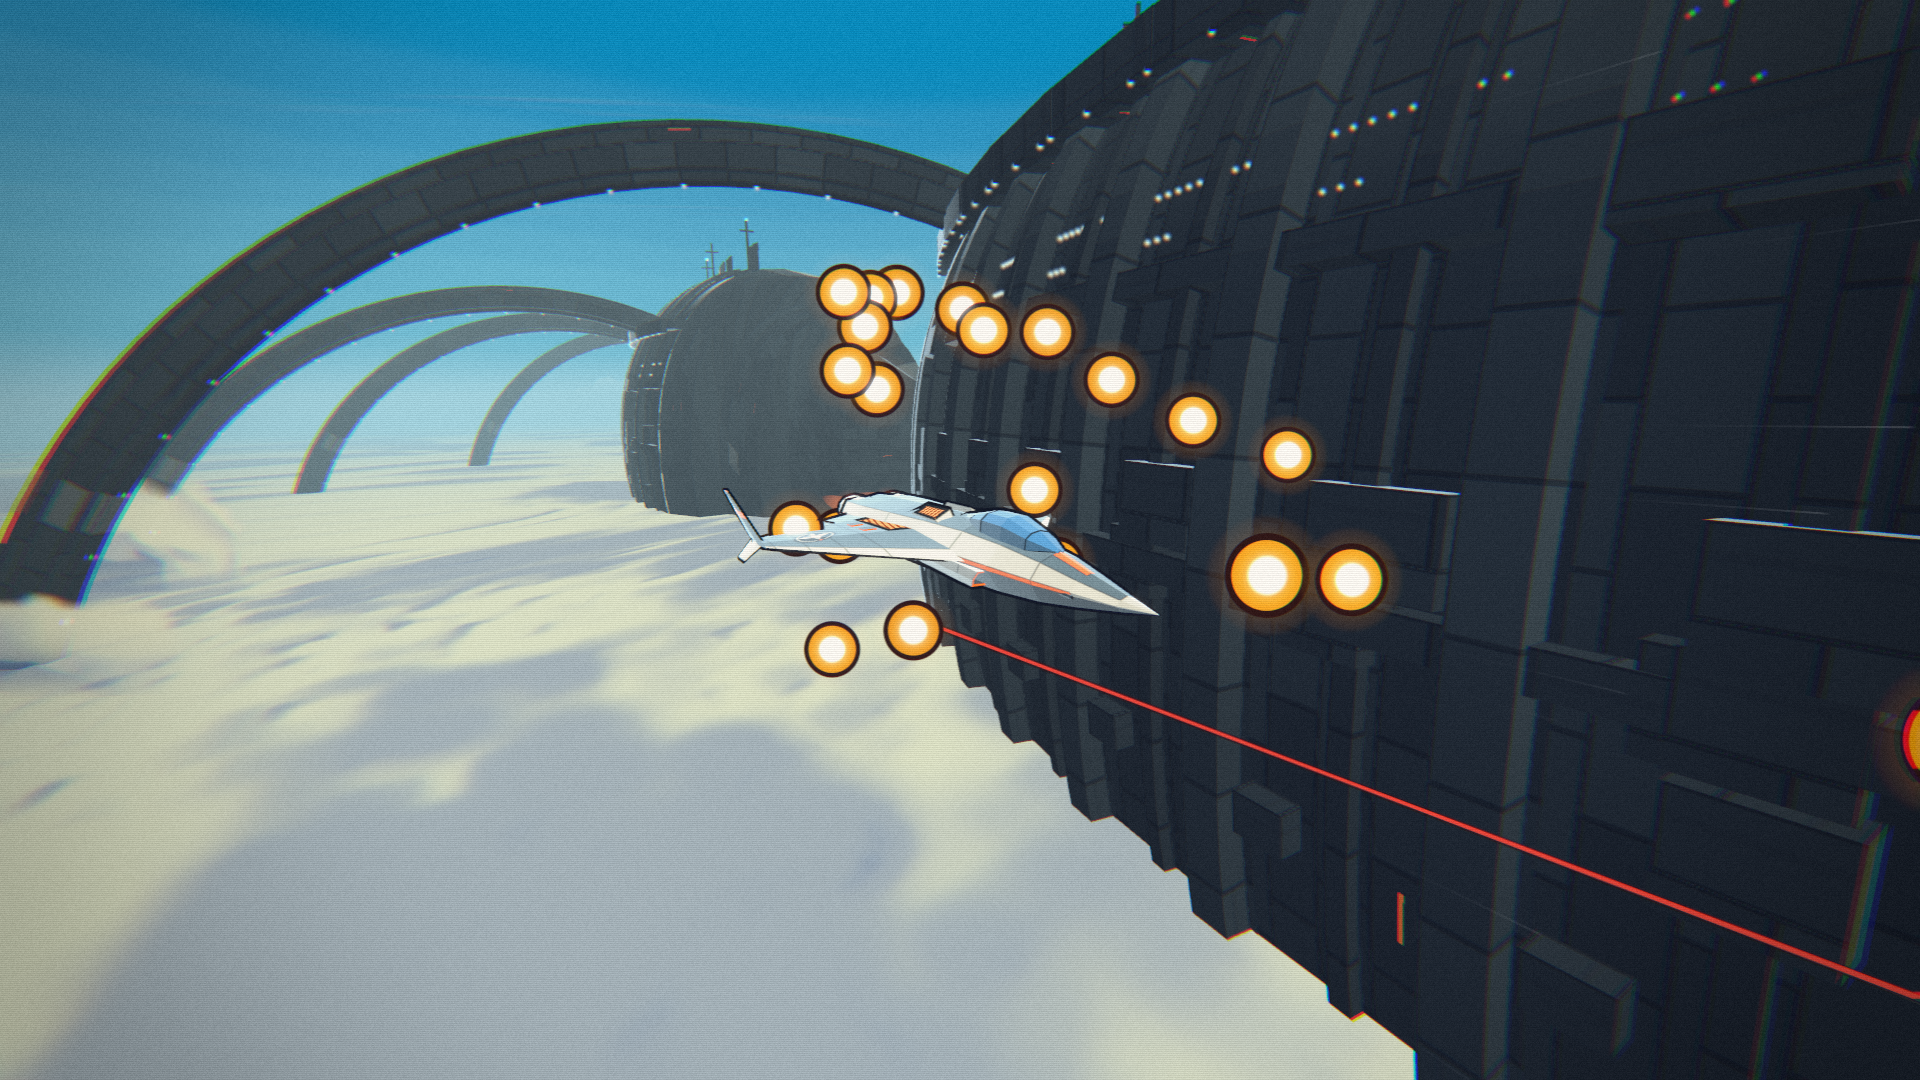
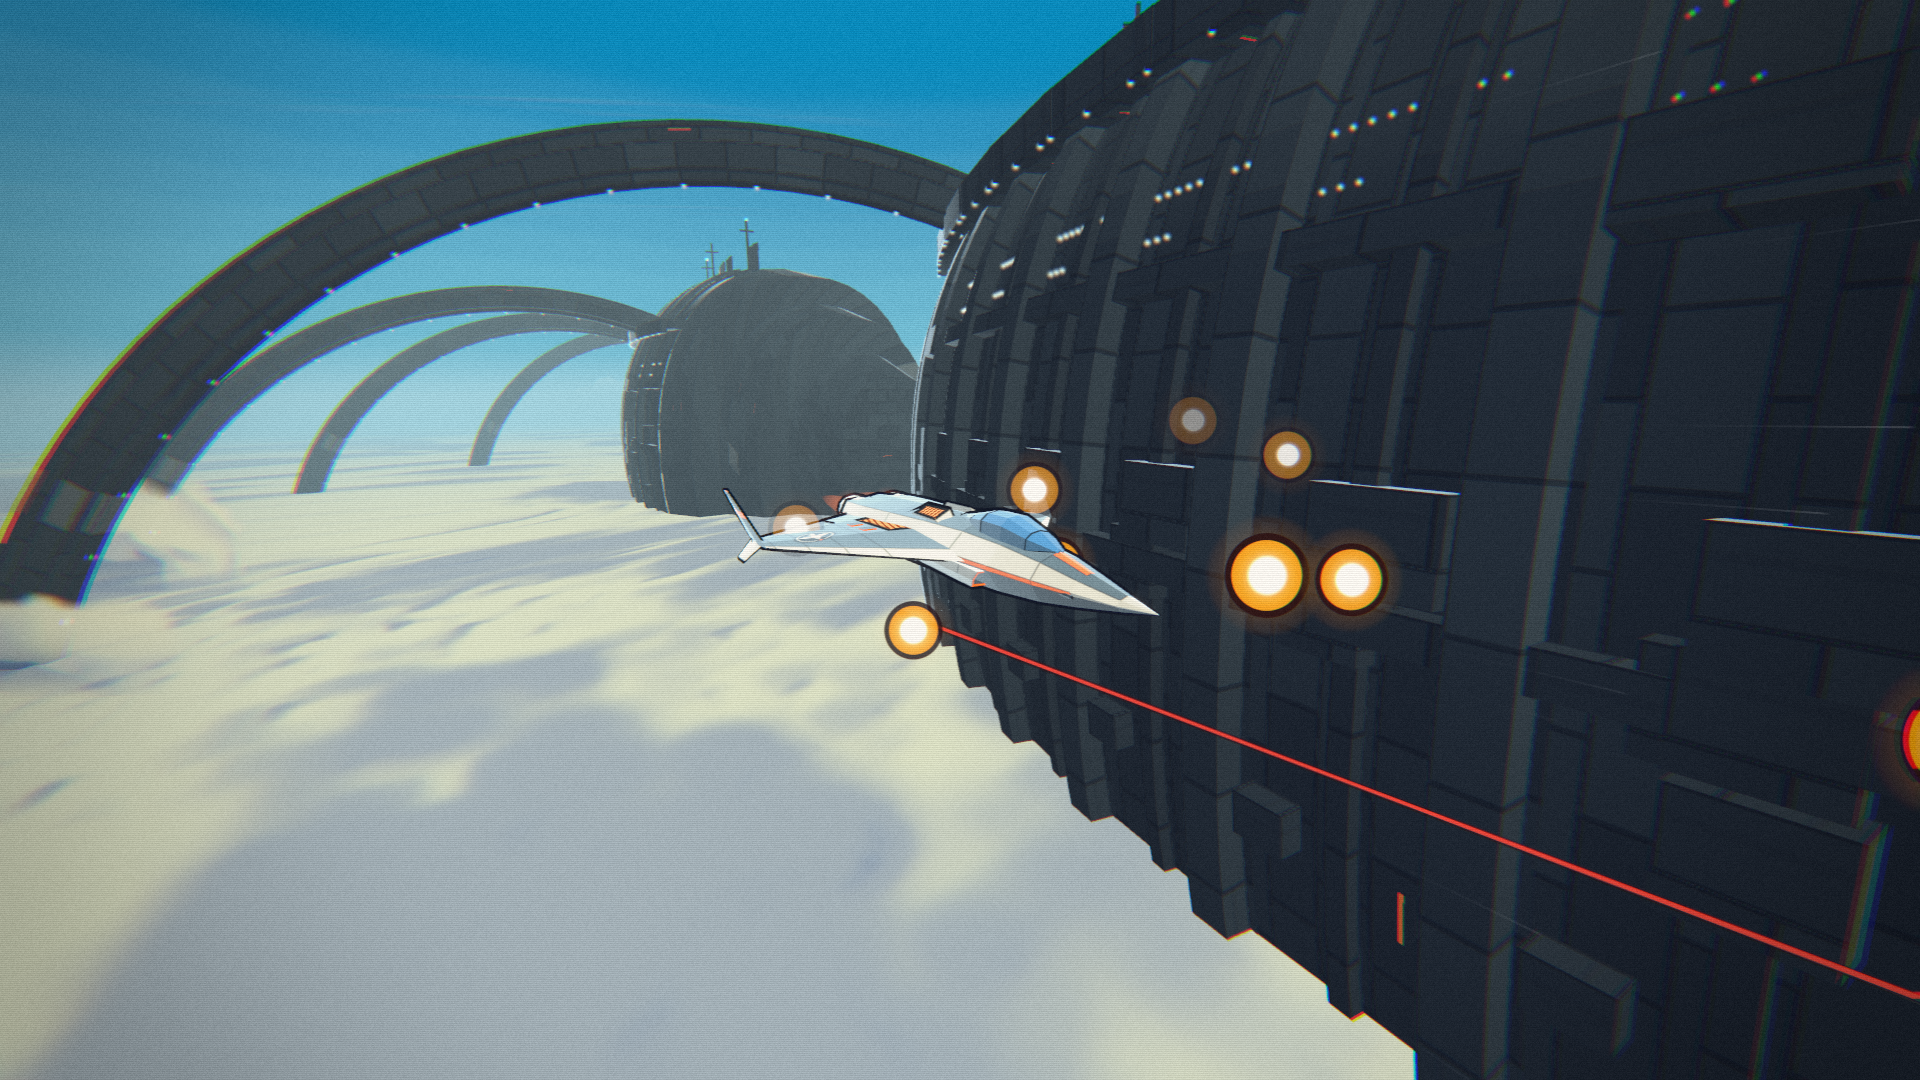
CONTRAIL: round-3 look fixes (bullet fade past craft, clear Wreckfield corridor, peak-moment combat camera)
Claude-Session: https://claude.ai/code/session_01Sb5vk8dPPmr8ekyxShV53k

diff --git a/contrail/src/game/game.ts b/contrail/src/game/game.ts
@@ -129,7 +129,9 @@ export class Game implements Combat {
     const def = STAGES[id];
     if (!def) throw new Error(`unknown stage '${id}' (defined: ${Object.keys(STAGES).join(', ')})`);
     this.stage = def;
-    this.rail = new Rail({ length: def.lengthS * T.rail.speed, wanderX: 60, wanderY: 18, wavelength: 900, seed: def.railSeed });
+    // Wreckfield debris keeps a clear corridor around the world axis: its rail must stay near it
+    const wander = def.id === 'wreckfield' ? { x: 5, y: 3 } : def.id === 'violetTide' ? { x: 35, y: 10 } : { x: 60, y: 18 };
+    this.rail = new Rail({ length: def.lengthS * T.rail.speed, wanderX: wander.x, wanderY: wander.y, wavelength: 900, seed: def.railSeed });
   }
 
   /** Reset everything for a fresh run of the current stage. */
@@ -349,6 +351,7 @@ export class Game implements Combat {
   }
 
   frameCounter = 0;
+  private hullAcc = 0;
   /** launch intro length: 2.5 s from the title, 0.8 s on a retry */
   launchS = 2.5;
 
@@ -962,8 +965,9 @@ export class Game implements Combat {
     this.events.emit('playerHit', { damage: d, source, pos: scratchV.set(p.x, p.y, 0) });
     // one live hull line: continuous damage (lasers) accumulates instead of stacking lines
     const prev = this.combatText.find((c) => c.text.startsWith('HULL -') && c.age < 0.8);
-    if (prev) { prev.text = `HULL -${Math.round(Number(prev.text.slice(6)) + d)}`; prev.age = 0; }
-    else this.combatText.push({ text: `HULL -${Math.round(d)}`, kind: 'hot', age: 0 });
+    this.hullAcc = (prev ? this.hullAcc : 0) + d;
+    if (prev) { prev.text = `HULL -${Math.max(1, Math.round(this.hullAcc))}`; prev.age = 0; }
+    else if (this.hullAcc >= 0.5) this.combatText.push({ text: `HULL -${Math.max(1, Math.round(this.hullAcc))}`, kind: 'hot', age: 0 });
     if (p.shield <= 0) {
       p.shield = 0;
       p.alive = false;

diff --git a/contrail/src/main.ts b/contrail/src/main.ts
@@ -134,6 +134,15 @@ if (params.debug) {
       if ((STORY_CAMERAS as readonly string[]).includes(name)) {
         view.storyCam = name as StoryCamera;
         hudOn = !['hero', 'vista'].includes(name);
+        if (name === 'combat' && game.state === 'play') {
+          // peak-moment camera: advance (max 3 s) to the next beam firing or big kill
+          const k0 = (game.events.counts.laserFire ?? 0) + (game.stats['killed:strider'] ?? 0);
+          for (let i = 0; i < 180 && game.state === 'play'; i++) {
+            app.step(1, false);
+            if ((game.events.counts.laserFire ?? 0) + (game.stats['killed:strider'] ?? 0) > k0) { app.step(8, false); break; }
+          }
+          app.step(0, true);
+        }
       }
     },
     cameras: () => [...STORY_CAMERAS],

diff --git a/contrail/src/game/view.ts b/contrail/src/game/view.ts
@@ -310,7 +310,10 @@ export class View {
     let n = 0;
     for (const b of g.bullets) {
       if (!b.alive) continue;
-      this.hostile.setInstance(n++, this.railToWorld(b.u, b.x, b.y, V), b.radius * 1.4, 1);
+      // rounds that have passed the craft shrink and fade instead of filling the lens (M2 re-gate D-2)
+      const past = b.u < 4 ? Math.max(0, Math.min(1, (b.u + 6) / 10)) : 1;
+      if (past <= 0.02) continue;
+      this.hostile.setInstance(n++, this.railToWorld(b.u, b.x, b.y, V), b.radius * 1.4 * (0.5 + 0.5 * past), past);
     }
     this.shots.clear();
     n = 0;

diff --git a/contrail/Docs/reviews/M2_M4_regate.md b/contrail/Docs/reviews/M2_M4_regate.md
@@ -1,0 +1,111 @@
+# Reviewer — M2 look lock + M4 peak moment (re-gate)
+
+Date: 2026-09-30. Fresh-context Reviewer. Judged from images only, against GAME_FORGE §12 and STYLE_BIBLE (starting from the "Current values" table). No author explanations were used.
+
+**Images opened (all opened, none scored 0):**
+- Captures in `Docs/captures/m2/`: cloudgate_combat, cloudgate_hero, cloudgate_hud, violetTide_combat, wreckfield_combat, contact.
+- Motion/juice evidence: `Docs/progress/m2/20260930T111124Z_combat.png`, `20260930T111114Z_combat.png`; `Docs/progress/goldpath/20260930T110437Z_p25.png`, `_p50.png`, `20260930T105207Z_p75.png`.
+- Boards in `look/approved/`: hero, hud, vfx-bullets, enemies, vfx-beam.
+- Owner ref 07 (boss scale spectacle), compared by relationship only.
+
+Note on the capture set: `cloudgate_hud.png` and `cloudgate_combat.png` are again the same moment. Both show SCORE 36380, ROUTE 85%, HULL 92/100 and the same bullet cluster on the reticle, and only the camera differs. The two m2 progress frames are byte-for-byte the same moments as violetTide_combat and wreckfield_combat. So there is one frame of evidence per stage, and no sequence to judge motion from.
+
+---
+
+## Gate M2 — look lock (hero, Cloudgate environment, HUD)
+
+Evidence: cloudgate_hero, cloudgate_combat, cloudgate_hud, and goldpath 105207Z_p75 as a supporting Cloudgate frame.
+
+| # | Axis | Score | Evidence |
+|---|---|---|---|
+| 1 | Board match | **7** | The hero still matches hero board B: steel/light livery, orange wing vents, blue canopy, fin-tip wings and ink outline (hero ≈ 730-1160, 490-620). The hull and arches match structures B, and the HUD matches hud board C cell for cell. The rounds now use the right disc style, but near-camera rounds render at about 150-200 px (≈ 14-18% of frame height, hud ≈ 540-740, 400-600), which is far outside the 2% core scale on vfx-bullets B. |
+| 2 | Readability | **5** | The hero reads instantly against cream cloud. The strider is still hidden: about 20 overlapping rounds sit on the reticle (combat ≈ 790-1030, 420-630), so only a sliver of the dark shooter shows behind them (≈ 900,450). There are no lock brackets on it, and oversized near rounds cover the left third of the frame. |
+| 3 | Lighting & colour | **7** | The palette is disciplined: sky.day blue, cream clouds with cool shadow sides, near-dark hull masses, and warm/cool splits on the hero. RGB triplets remain on the small hull lights (hero ≈ 1300-1850, 40-200), there is a colour fringe on the left arch edge (hero ≈ 0-120, 450-600), and the hull silhouette against the sky has almost no rim. |
+| 4 | Depth & composition | **7** | The corridor reads strongly in hero and p75, with the dark hull on one side and arches receding in three steps. The cloud sea shows cast shadows, and there is more cumulus on the right horizon than last time (combat ≈ 1100-1900, 330-500). In combat, the hull wall and oversized rounds crowd the left 40% of the frame, and everything of interest stacks in one central column. |
+| 6 | UI clarity & polish | **7** | The perimeter HUD is clean and legible over bright sky, the scrim works, and the duplicate "N CHAIN" popup is gone. Four problems remain: a "HULL -0" damage popup (combat ≈ 40-190, 200) reports zero damage, no lock brackets appear, the hazard stripe under CLOUDGATE is ambiguous (the only hazard visible is a thin red telegraph line), and the HUD capture repeats the combat moment instead of showing a distinct state. |
+| 7 | Juice & finish | **5** | The build does have juice. Goldpath p75 shows a persistent smoke ribbon across the Cloudgate hull, and the red telegraph line is present in all three Cloudgate captures. But none of the three gate frames shows an explosion, a hit flash, cyan player fire, speed streaks or smoke, and the only feedback is the rounds and a "HULL -0" popup. |
+
+**Average: 38 / 6 = 6.33. No axis is below 5, but the average is under 7. M2 fails.**
+
+---
+
+## Gate M4 — peak moment (wreckfield_combat, cloudgate_combat, violetTide_combat)
+
+| # | Axis | Score | Evidence |
+|---|---|---|---|
+| 1 | Board match | **7** | wreckfield_combat matches enemies B's BULWARK: a dark broad wing, rows of warm edge lights and yellow emitter pods. The yellow planet rim-lights the asteroids, as on the Wreckfield board. violetTide matches its board, with an indigo sky, a narrow orange horizon, a white sun and a backlit warm hero. Rounds match the disc style of vfx-bullets B but are several times the board's scale. |
+| 2 | Readability | **5** | The boss silhouette is cleaner than last time, with no asteroids crossing its centre, and its sliver now sits above the reticle. But Violet again shows no shooter at all (CONTACTS 00, TGT SCANNING) while a missile bursts, and in Cloudgate the strider is buried under its own fire. Hostile fire is not attributable to a source in two of the three frames. |
+| 3 | Lighting & colour | **7** | Each stage has one key light: a high sun at Cloudgate, a low sun ahead at Violet, and the yellow planet at upper right in Wreckfield. The bright-to-dark swing across stages holds. The Violet cloud sea is still mid-value pink (lower third ≈ 30-45% luminance), brighter than the dark-sunset target, and the foreground asteroid in Wreck is lit as a flat tan plane with no value modelling. |
+| 4 | Depth & composition | **6** | The boss is bigger (≈ 40% of frame width) and slightly pitched, which is better. But a huge flat foreground asteroid fills the left ~35% of the Wreck frame (≈ 0-760, 0-980) and pushes the action into a strip on the right. violetTide is an empty sea apart from the hero and one smoke trail. Nothing approaches the overhanging scale of ref 07. |
+| 6 | UI clarity & polish | **6** | The boss sliver is off the reticle now, and TGT BULWARK/HP stays consistent. But five identical "HULL -3" popups stack at the top left of the Wreck frame (≈ 30-190, 140-340) and read as a log, not feedback. No frame shows lock brackets. Violet reads CONTACTS 00 while a target explodes 80 px from the reticle. |
+| 7 | Juice & finish | **5** | This is the frame that improved most. violetTide shows the missile's persistent cream smoke ribbon, a hot burst and an RGB-edged ring (≈ 1000-1600, 440-800), and goldpath p25 proves that an explosion with orange lobes and the 3-band shock ring renders in Wreckfield. But the boss frame itself still has no beam or telegraph, no explosion, no hit flash and no smoke: only four oversized rounds. |
+
+**Average: 36 / 6 = 6.00. No axis is below 5, but the average is under 7. M4 fails.**
+
+---
+
+## Paired comparison vs previous review (M2 6.33 / M4 6.00)
+
+**The scores are the same as last time. The captures now meet the no-axis-below-5 floor (juice went from 4 to 5 in both gates), but neither gate reaches an average of 7.**
+
+Improved:
+- **Juice is now visible.** Missile smoke, a burst and a ring show in violetTide, and goldpath frames show an explosion, the 3-band RGB ring and long smoke ribbons. The missile counter is no longer stuck at 0 everywhere (Wreck shows 1/6).
+- **The Cloudgate "coin columns" are gone.** Rounds render as separate discs with a white core and a dark ring.
+- **The boss health sliver no longer sits on the reticle.** The boss is larger, pitched slightly and free of asteroids crossing its centre.
+- **The duplicate "N CHAIN" popup is removed.** Cloudgate also has more cumulus on the horizon.
+
+Unchanged or regressed:
+- **Near-camera rounds have become oversized, which is a regression.** Rounds reach 150-200 px and swamp the Cloudgate frames, and the cluster on the reticle still hides the strider.
+- **Lock brackets are still absent from every frame.** Violet still has no visible shooter.
+- **Damage popups are new clutter, also a regression.** They include a "HULL -0" and a 5-deep "HULL -3" stack.
+- **A big foreground asteroid now walls off the left third of the boss frame.**
+- **Capture discipline is unchanged.** The HUD capture still duplicates the combat moment, and the boss capture misses the beam or explosion moment the build can clearly produce.
+- **RGB residue remains on the hull lights and arch edges.**
+
+---
+
+## Top 5 defects (ranked by visual impact)
+
+### D-1 — Boss peak frame still lacks beam/explosion; the build's juice misses the gate capture   [impact: high]
+Capture: /home/user/RPG/contrail/Docs/captures/m2/wreckfield_combat.png (contrast: /home/user/RPG/contrail/Docs/progress/goldpath/20260930T110437Z_p25.png)
+Expected: The peak frame should show the bible §5 effects at once. That means a boss beam per vfx-beam C (yellow telegraph, then a white core with a yellow/red halo), an explosion with a white-yellow core and orange lobes, the 3-band shock ring, and smoke. Ref 07 relationship: effects occupy a large share of the peak frame.
+Actual: The only effects are four large rounds in a vertical line and the lit emitters. There is no telegraph, beam, hit flash, burst or smoke. Goldpath p25 shows that explosions, rings and smoke do render in Wreckfield, so the capture timing, the boss pattern or both are missing the moment.
+Suggested fix: Script the M4 capture (`?det=1&t=`) to land during a BULWARK beam volley, with the telegraph plus one firing beam. Make sure a player missile salvo with smoke and at least one explosion plus ring from an escort or emitter falls in the same frame. Give the boss a 2-frame white hit flash on damage.
+Owner lane: Integrator (capture script, boss pattern timing) + vfx (beam)
+
+### D-2 — Near-camera hostile rounds oversized and clustered on the reticle   [impact: high]
+Capture: /home/user/RPG/contrail/Docs/captures/m2/cloudgate_hud.png (also cloudgate_combat.png, cloudgate_hero.png, wreckfield_combat.png)
+Expected: Per vfx-bullets B and "Current values", the core is at least 1.8-2.0% of frame height. The board's largest rounds at 20 m are about 5% of height, and rounds stay separable.
+Actual: Rounds near the camera reach 150-200 px, about 14-18% of height (hud ≈ 540-740, 400-600; combat ≈ 20-190, 190-360). About 20 rounds overlap on the reticle (≈ 790-1030, 420-630) and hide the strider that fired them. In Wreck, rounds are about 130 px each.
+Suggested fix: Clamp screen-space round size to a maximum of about 4-5% of frame height (enforce a floor and a ceiling in the billboard shader). Cull or fade rounds that have passed the craft or come closer than about 15 m. Add a lateral spread or time gap to streams aimed at the camera so rounds do not stack on the reticle.
+Owner lane: vfx (bullets) + enemies (fire patterns)
+
+### D-3 — No lock brackets anywhere; shooters invisible or unattributable   [impact: high]
+Capture: /home/user/RPG/contrail/Docs/captures/m2/violetTide_combat.png (also cloudgate_combat.png, wreckfield_combat.png)
+Expected: Per hud board C, every on-screen hostile carries red square-corner brackets plus a lock count and sliver. Per bible §4/§7, hostiles read at a glance.
+Actual: None of the five captures shows brackets. Violet shows CONTACTS 00 / TGT SCANNING while a target explodes next to the reticle. The Cloudgate strider is buried behind rounds, and the boss and its emitters have no brackets.
+Suggested fix: Draw passive brackets on every hostile in the frustum, and a separate style on destructible boss sub-parts. Add an edge-of-frame chevron for off-screen shooters. Keep CONTACTS counting the hostiles in the frustum until the last kill has resolved.
+Owner lane: HUD + Integrator (target list wiring)
+
+### D-4 — Damage popups: stacked "HULL -3" log and zero-value "HULL -0"   [impact: med]
+Capture: /home/user/RPG/contrail/Docs/captures/m2/wreckfield_combat.png (also cloudgate_combat.png ≈ 40-190, 200)
+Expected: Per hud board C, popups are short, distinct events ("6 CHAIN / SHIELD REFILL / PARRY +50") in the left mid area. Damage should feed back through the HULL bar, the portrait danger state and a screen hit cue.
+Actual: Five identical "HULL -3" lines stack down to y ≈ 340 and read as a debug log. In Cloudgate, "HULL -0" is shown even though no damage was taken.
+Suggested fix: Merge damage within about 0.5 s into one popup ("HULL -15"), suppress zero-value popups, cap the stack at 2, and add a brief red edge vignette or portrait flash as the main hit cue.
+Owner lane: HUD
+
+### D-5 — Boss frame composition: flat foreground asteroid walls off the left third   [impact: med]
+Capture: /home/user/RPG/contrail/Docs/captures/m2/wreckfield_combat.png
+Expected: Per bible §4/KEEP "big boss silhouettes" and the ref 07 relationship, the boss dominates, the camera looks up at it, and the foreground stays clear. Enemies board B shows BULWARK from below and behind.
+Actual: An untextured tan asteroid plane fills about 0-760 x 0-980 px. The boss (≈ 710-1510, 190-420) is squeezed into the upper centre at about 40% of width, with a second slab crossing the top centre (≈ 950-1250, 0-150).
+Suggested fix: Add an asteroid exclusion cone of at least 25° around the camera-to-boss axis during the boss phase, and within 40 m of the camera. Pitch the camera up 10-20° so the boss spans at least 60% of width. Give large near rocks value modelling (shadowed faces toward space.deep) so they do not read as flat cards.
+Owner lane: structures (asteroid field) + Integrator (boss camera)
+
+---
+
+Other issues found, not in the top 5:
+- The HUD capture duplicates the combat moment. Capture a hazard or danger-portrait state instead.
+- RGB triplets remain on hull point lights, and there is fringing on the arch edges.
+- The Violet cloud sea is mid-value, brighter than the dark-sunset target.
+- No cyan player fire or speed streaks in any gate frame.
+- The hazard stripe under the stage name is ambiguous when only a thin telegraph line is present.

diff --git a/contrail/Docs/DECISIONS.md b/contrail/Docs/DECISIONS.md
@@ -94,3 +94,5 @@ Explosions/smoke spawned while fast-forwarding never aged (no render updates), s
 
 ## 2026-09-30T11:10Z — Juice/readability fixes after M2/M4 review (Docs/reviews/M2_M4.md, 6.33 / 6.00)
 Missile regen 12 s -> 4 s [A] (barrages were rare: 0/6 ammo in every frame; Cloudgate goldpath now 41 missile volleys); strider volleys fire as a serpentine stream (0.045 s per orb) instead of all at once (no on-screen 'coin' columns); BULWARK holds at u 150 (was 195) and 130 in phase 3 for scale; chroma base 0.0015 -> 0.001; play-speed streaks 0.45 -> 0.62; captures step 2.5 s of live effects after a skip.
+
+## 2026-09-30T11:20Z — Round-3 fixes: Wreckfield rail kept near the debris corridor (wander 5/3 m), Violet 35/10, Cloudgate 60/18; rounds past the craft shrink and fade; hull damage lines accumulate; combat story camera advances up to 3 s to the next beam firing or strider kill (peak-moment capture)

diff --git a/contrail/Docs/TODO.md b/contrail/Docs/TODO.md
@@ -39,3 +39,4 @@
 | T035 | P1 | VFX/Director | Readability cloudgate t=150: dE00 median 25.3 (barely passes), p10 20.7; low cases are overlapping bullet clusters; raise contrast margin | open |
 | T036 | P1 | Director | Wreckfield boss frames cost ~1.5x Cloudgate in software GL (overdraw: big beams + bloom); a 1080p goldpath screenshot timed out once; measure on a real GPU / cap beam overdraw | open |
 | T037 | P1 | Gameplay | Violet Tide and Wreckfield too easy for the bot (shield 100 at the end); tune like Cloudgate (A15) | open |
+| T038 | P1 | UI | Font: 8 reads as 0 at HUD sizes (Reviewer read 'HULL -8' as 'HULL -0'); give 8 a clear waist or use a slashed zero | open |
